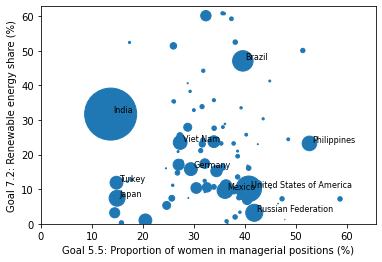
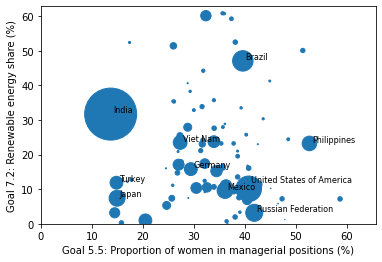
Take away reading guide from main code file

Changed region(s): [[0.6335, 0.6718, 0.9215, 0.7328]]

diff --git a/assignment_A_main.py b/assignment_A_main.py
@@ -6,60 +6,19 @@ Author:         Marron Loods
 Coordinator:    Laura Scherer
 Date:           November 9, 2021
 
-
-Reading guide:
+Research question: 
     
-    - For the full description of this assignment see SAPY_assignment.pdf
-        in the folder of this code.
-    - Code cells are numbered based on the assignment tasks.
-    - Tasks are listed in order except for:
-        - Task 8: Radio button, which is commented out in cell 4d.1. The 
-            section between #### can be commented in to enable the radio 
-            button, but the cells below need to be run manually afterwards.
-            It is therefore recommended to run the entire code first, then 
-            uncomment the commented code in cell 4d.1, rerun cell 4d.1 to make
-            a selection, and finally rerun 4d.2 to read the new results in the
-            console.
-        - Task 9: 
-            a-d Done throughout entire code.
-            e Code documentation automatically generated through Sphinx.
-        - Task 10
-    - Code commented out in current file to avoid spamming console/files:
-        - 2b.1 Tables with count of data points per year in cell 
-        - 3b Sanity test to check whether the lists of countries are identical
-        - 4b.1 First scatterplot savefig
-        - 4b.2 Boxplot savefig
-        - 4c.1 Table with outliers 
-        - 4c.2 New scatterplot with outliers in color savefig
-
-Disclaimers:
-
-    - GUI not placed in different file                                              ### QUESTION IN CLASS
-    - On my computer, the working directory file keeps changing. Therefore, I 
-        made a variable current_folder. If current_folder = '' does not work,
-        please copy-paste the relative path name of the folder in which the 
-        current file is stored, to ensure that all files are found.
-    - When you close the window in which you select the correlation coefficient,
-        Python gives the error "SystemExit: 0"
-    - After selecting with the GUI, the rest of the code needs to be rerun          ### QUESTION IN CLASS
-    - Sometimes, the following warning is shown:
-        "Figures now render in the Plots pane by default. To make them also 
-        appear inline in the Console, uncheck "Mute Inline Plotting" under the      ### QUESTION IN CLASS
-        Plots pane options menu."
-        Please follow those instructions if wanted 
-        (Go to Plots, probaby in top right pane > Click on hamburger menu in top
-         right corner > Uncheck Mute inline plotting)
-    - To practice with writing code documentation, this has been done for three
-        functions only: significance, correlation_test, and target_reached
-    - Statistical test results are not rounded in the console or Results.txt
+    Are social and environmental Sustainable Development Goals (SDGs) 
+    correlated, and is there rather a trade-off or a synergy between the two?
 
 Accompanying files:
     
-    - functions.py
+    - assignment_A_functions.py
     - Data files (MS Excel): 'Goal5' (renamed after download), 
                              'Goal7' (renamed after download),
                              'TOTAL_POPULATION_BOTH_SEXES',   
                              'UNSD — Methodology
+    - README.md               
     All other files are generated while running code, but also submitted via BS                       
 
 Steps taken from anaconda prompt:
@@ -69,6 +28,8 @@ Steps taken from anaconda prompt:
     - Install: statsmodels, matplotlib, openpyxl, sphinx
     - Install (after previous installations!) geopandas
     
+
+For the reading guide and some disclaimers, please see the README file.
 """
 
 
@@ -106,7 +67,7 @@ time_table = {}
 time_total = time()
 
 #%% 1.1 Import data
-time_cell = time()
+time_cell = time() # Start timing this code cells
 
 SDGs = """
 Selected Sustainable Development Goals:
@@ -134,7 +95,8 @@ goal5_label = 'Goal 5.5: Proportion of women in managerial positions (%)'
 goal7_label ='Goal 7.2: Renewable energy share (%)'
 
 
-# Profile code cell
+# Note time of running code cell in time_total dictionary
+# This is repeated in each code cell
 time_table['1.1'] = time() - time_cell
 
 #%% 1.2 Check for missing values
@@ -143,7 +105,7 @@ time_cell = time()
 if (pd.notna(goal5['Value'].all()) and pd.notna(goal7_2['Value'].all())):
     print("\nGoals 5 and 7 have no missing values")
 else:
-    print("\nThere are missing values. Uncomment lines to determine which goals.") #WHICH LINES???
+    print("\nThere are missing values. Uncomment lines to determine which goals.") 
     
 print("\nNote: Countries/years for which data is missing are not in the files, as the rows simply not included. Therefore, there are no values for missing data.")
 print("\n----------\n")
@@ -295,7 +257,7 @@ print("Outliers Indices: {}\n".format(outliers_indices))
 #     print(data[ii])
 
 print("After inspection, it is concluded that the ouliers are not erroneous,\n \
-however, they are removed to better determine a potential relation.")                               #CHANGE?
+however, they are removed to better determine a potential relation.")
 print("\n----------\n")
 
 # Remove outliers
@@ -462,13 +424,18 @@ goals['Sizes'] = goals['Population'] / 500
 
 # Top 10 countries with largest population
 population10 = goals.nlargest(10, 'Population') 
-population10.reset_index(inplace=True)
+# Drop USA because of overlapping labels. Index value is the same as in goals.
+US_index = population10.loc[population10['GeoAreaName'] == 'United States of America'].index.values[0]
+population10.drop([US_index], inplace=True) 
+population10.reset_index(inplace=True) # Reset index for the for-loop
 
 # Make bubble chart
 plt.scatter(goals['Goal5'], goals['Goal7'], s=goals['Sizes'])
 for i in range(population10.shape[0]):
     plt.text(x=population10.Goal5[i]+0.5,y=population10.Goal7[i]+0.5,s=population10.GeoAreaName[i], 
           fontdict=dict(color='black',size=8))
+plt.text(x=goals.Goal5[US_index]+0.5,y=goals.Goal7[US_index]+2,s=goals.GeoAreaName[90], 
+      fontdict=dict(color='black',size=8))
 plt.xlabel(goal5_label)
 plt.ylabel(goal7_label)
 plt.xlim(0, goals['Goal5'].max()+7)
@@ -498,7 +465,6 @@ goals['iso_a3'] = goals_match_code['ISO-alpha3 Code'].values
 # Some countries are missing in the world map, probably because they are too small
 # However, the country codes of CYP, FRA and NOR had incorrect values
 # These are changed below.
-
 world.loc[world['name'] == 'France', 'iso_a3'] = 'FRA'
 world.loc[world['name'] == 'Norway', 'iso_a3'] = 'NOR'
 world.loc[world['name'] == 'Cyprus', 'iso_a3'] = 'CYP'
